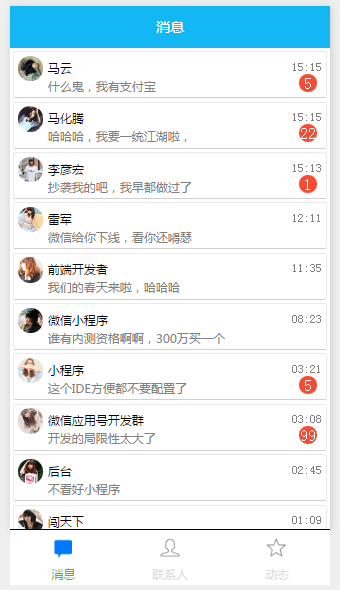
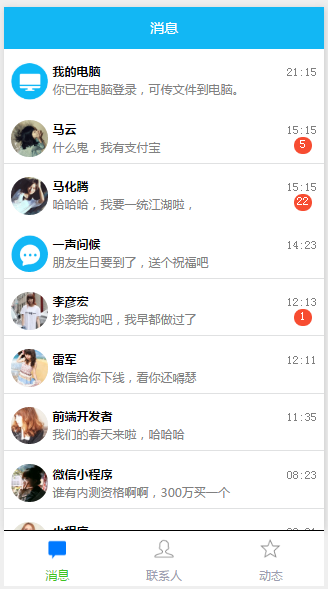
Adjust layout
Adjust layout

diff --git a/pages/message/message.js b/pages/message/message.js
@@ -10,6 +10,13 @@ Page({
     // text:"这是一个页面"
     messages:[
       {
+        title:"我的电脑",
+        url:"/images/icon.png",
+        message:"你已在电脑登录，可传文件到电脑。",
+        time:"21:15",
+        count:0
+      },
+      {
         title:"马云",
         url:"http://img1.3lian.com/gif/more/11/201212/0d1252b54be4f2d240b6b7fe4ed35054.jpg",
         message:"什么鬼，我有支付宝",
@@ -24,10 +31,17 @@ Page({
         count:22
         },
       {
+        title:"一声问候",
+        url:"/images/icon1.png",
+        message:"朋友生日要到了，送个祝福吧",
+        time:"14:23",
+        count:0
+      },
+      {
         title:"李彦宏",
         url:"http://img1.3lian.com/gif/more/11/201212/c011f2b2ab1a10d79fe931a786503d03.jpg",
          message:"抄袭我的吧，我早都做过了",
-        time:"15:13",
+        time:"12:13",
         count:1
          },
       {

diff --git a/README.md b/README.md
@@ -31,4 +31,6 @@
 
 2016/09/26 16:08  Add App picture and adjust the picture to center display for message .
 
+2016/09/26 22:46  Adjust layout
+
 目前正在紧张的开发中...请稍后，持续更新
